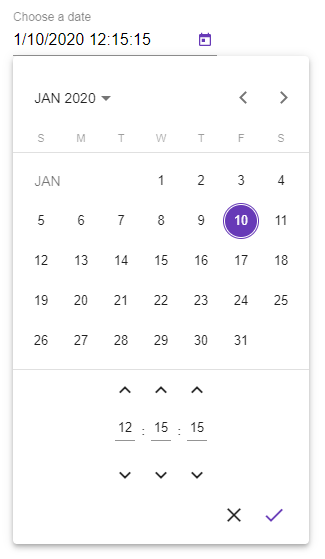
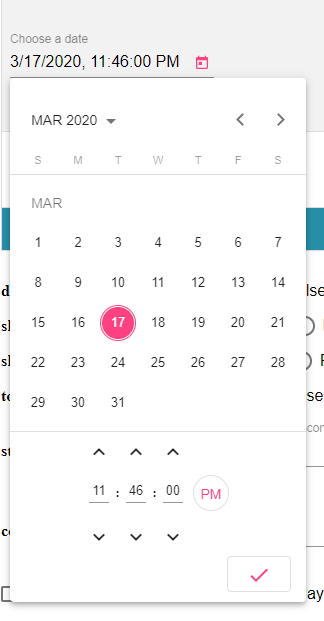
add demo png

diff --git a/projects/ngx-mat-datetime-picker/src/lib/core/ngx-mat-native-date-formats.ts b/projects/ngx-mat-datetime-picker/src/lib/core/ngx-mat-native-date-formats.ts
@@ -10,7 +10,7 @@ import { MatDateFormats } from '@angular/material/core';
 
 const DEFAULT_DATE_INPUT = {
   year: 'numeric', month: 'numeric', day: 'numeric',
-  hour12: true, hour: "2-digit", minute: "2-digit", second: "2-digit"
+  hour12: false, hour: "2-digit", minute: "2-digit", second: "2-digit"
 }
 
 export const NGX_MAT_NATIVE_DATE_FORMATS: MatDateFormats = {

diff --git a/CHANGELOG.md b/CHANGELOG.md
@@ -3,6 +3,7 @@ All notable changes to this library will be documented in this file.
 
 ## [2.0.3] - (Unrealeased)
 ### Fixed
+- Fix bugs ([#13](https://github.com/h2qutc/ngx-mat-datetime-picker/issues/13)).
 
 ### Changed
 - @Input **disableSecond** become @Input **showSeconds**.
@@ -12,4 +13,4 @@ All notable changes to this library will be documented in this file.
 
 ## [2.0.2] - 2019-03-16
 ### Fixed
-- Fix some bugs ([#37](https://github.com/h2qutc/ngx-mat-datetime-picker/issues/37), [#38](https://github.com/h2qutc/ngx-mat-datetime-picker/issues/38), [#39](https://github.com/h2qutc/ngx-mat-datetime-picker/issues/39)).
+- Fix bugs ([#37](https://github.com/h2qutc/ngx-mat-datetime-picker/issues/37), [#38](https://github.com/h2qutc/ngx-mat-datetime-picker/issues/38), [#39](https://github.com/h2qutc/ngx-mat-datetime-picker/issues/39)).
